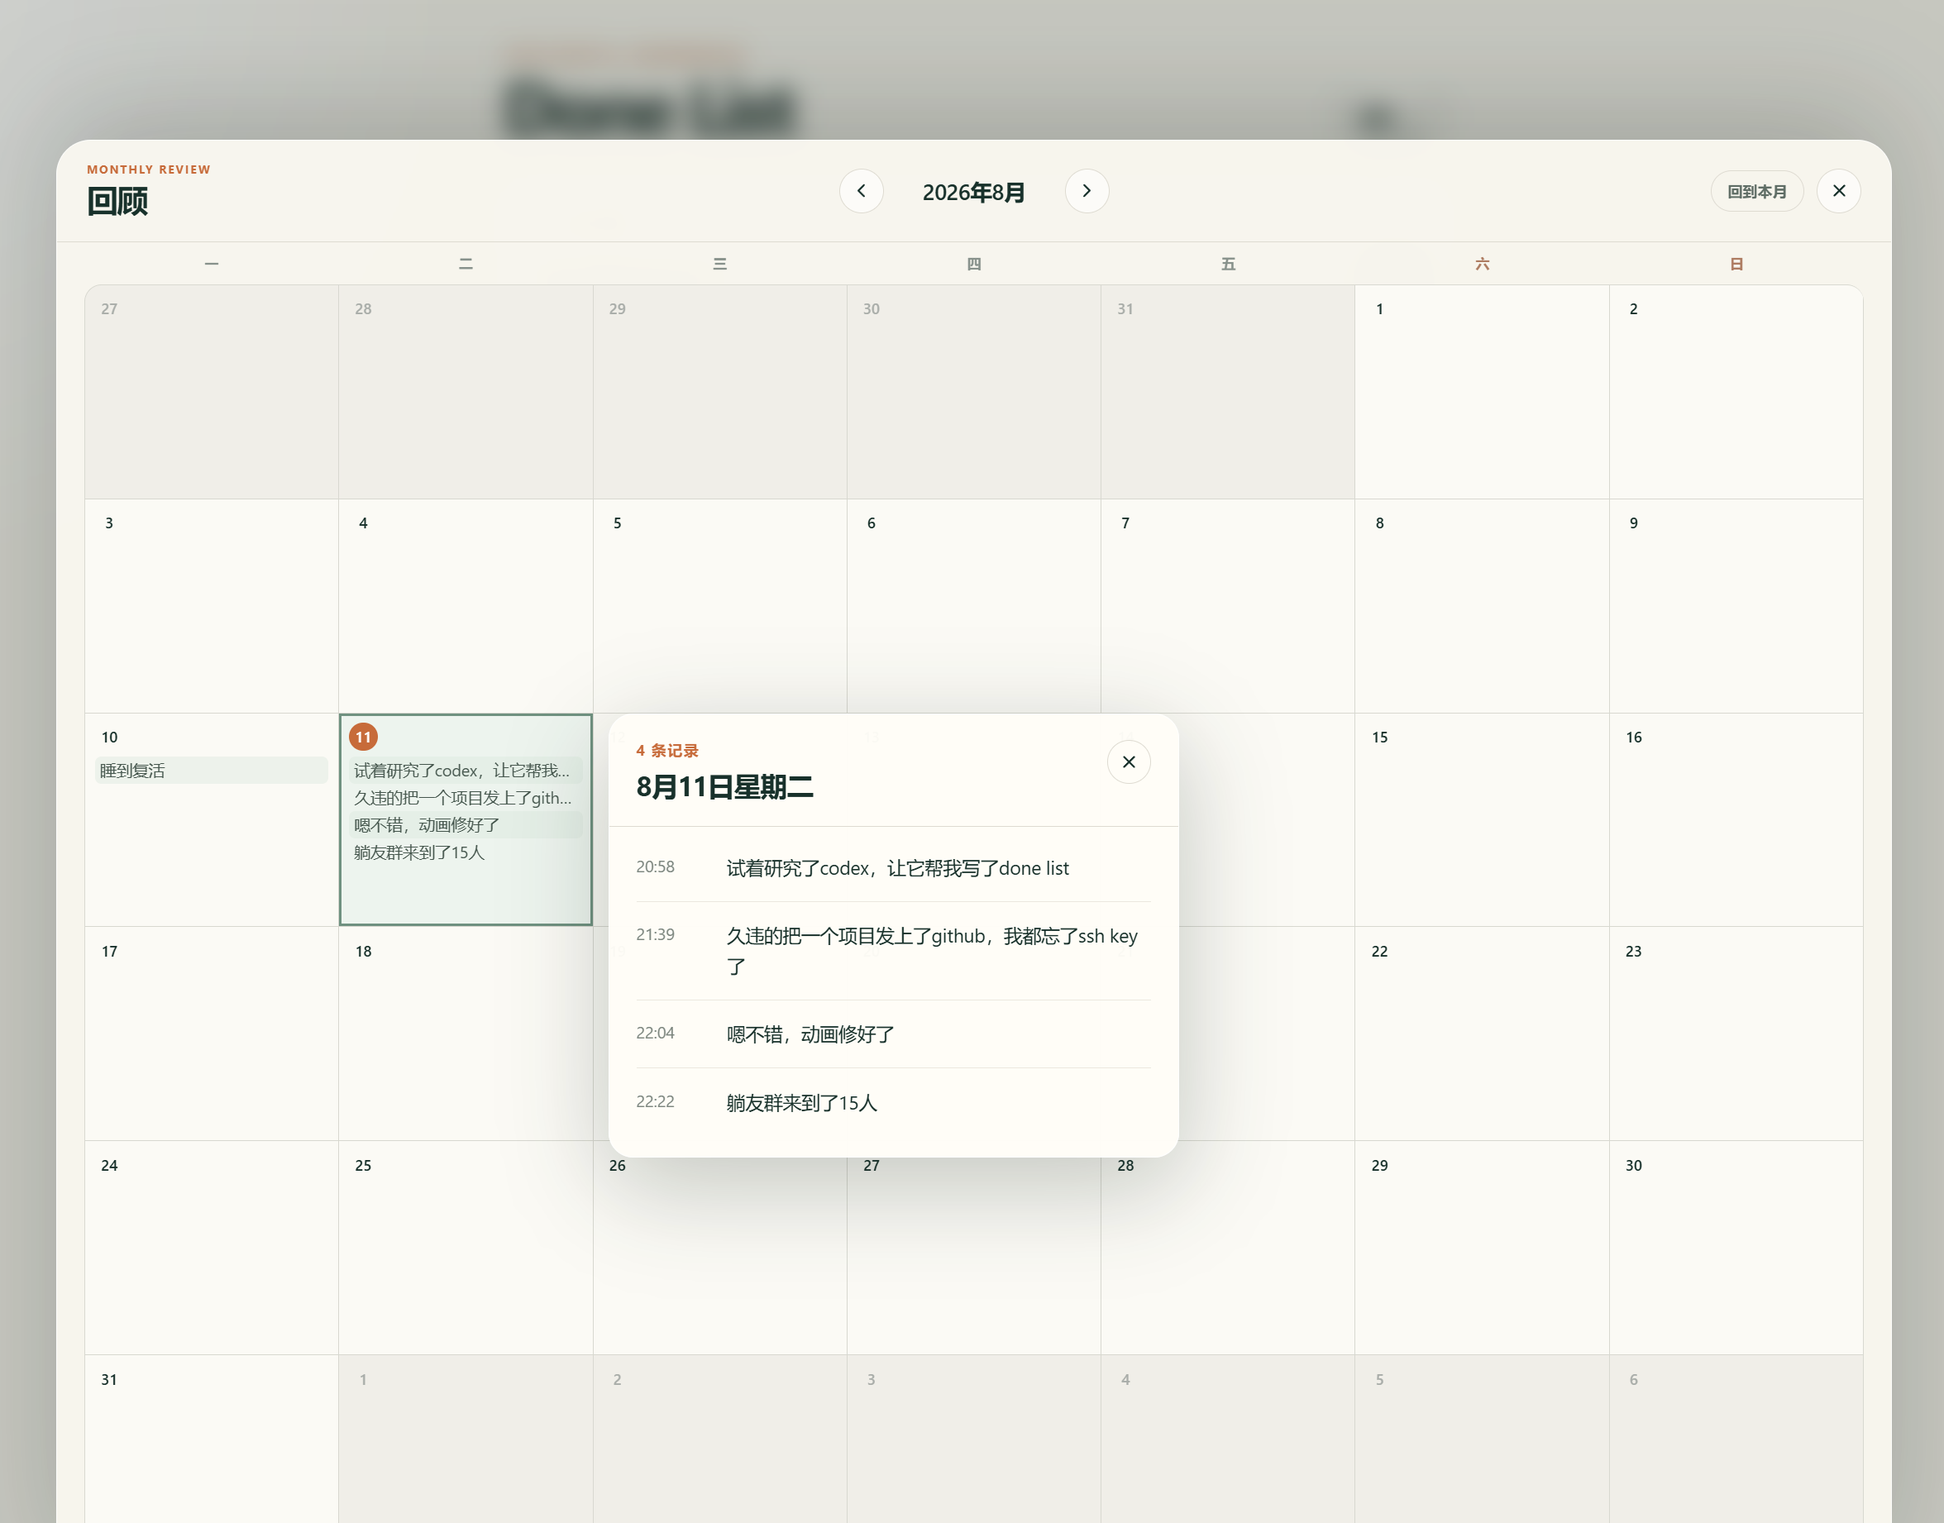
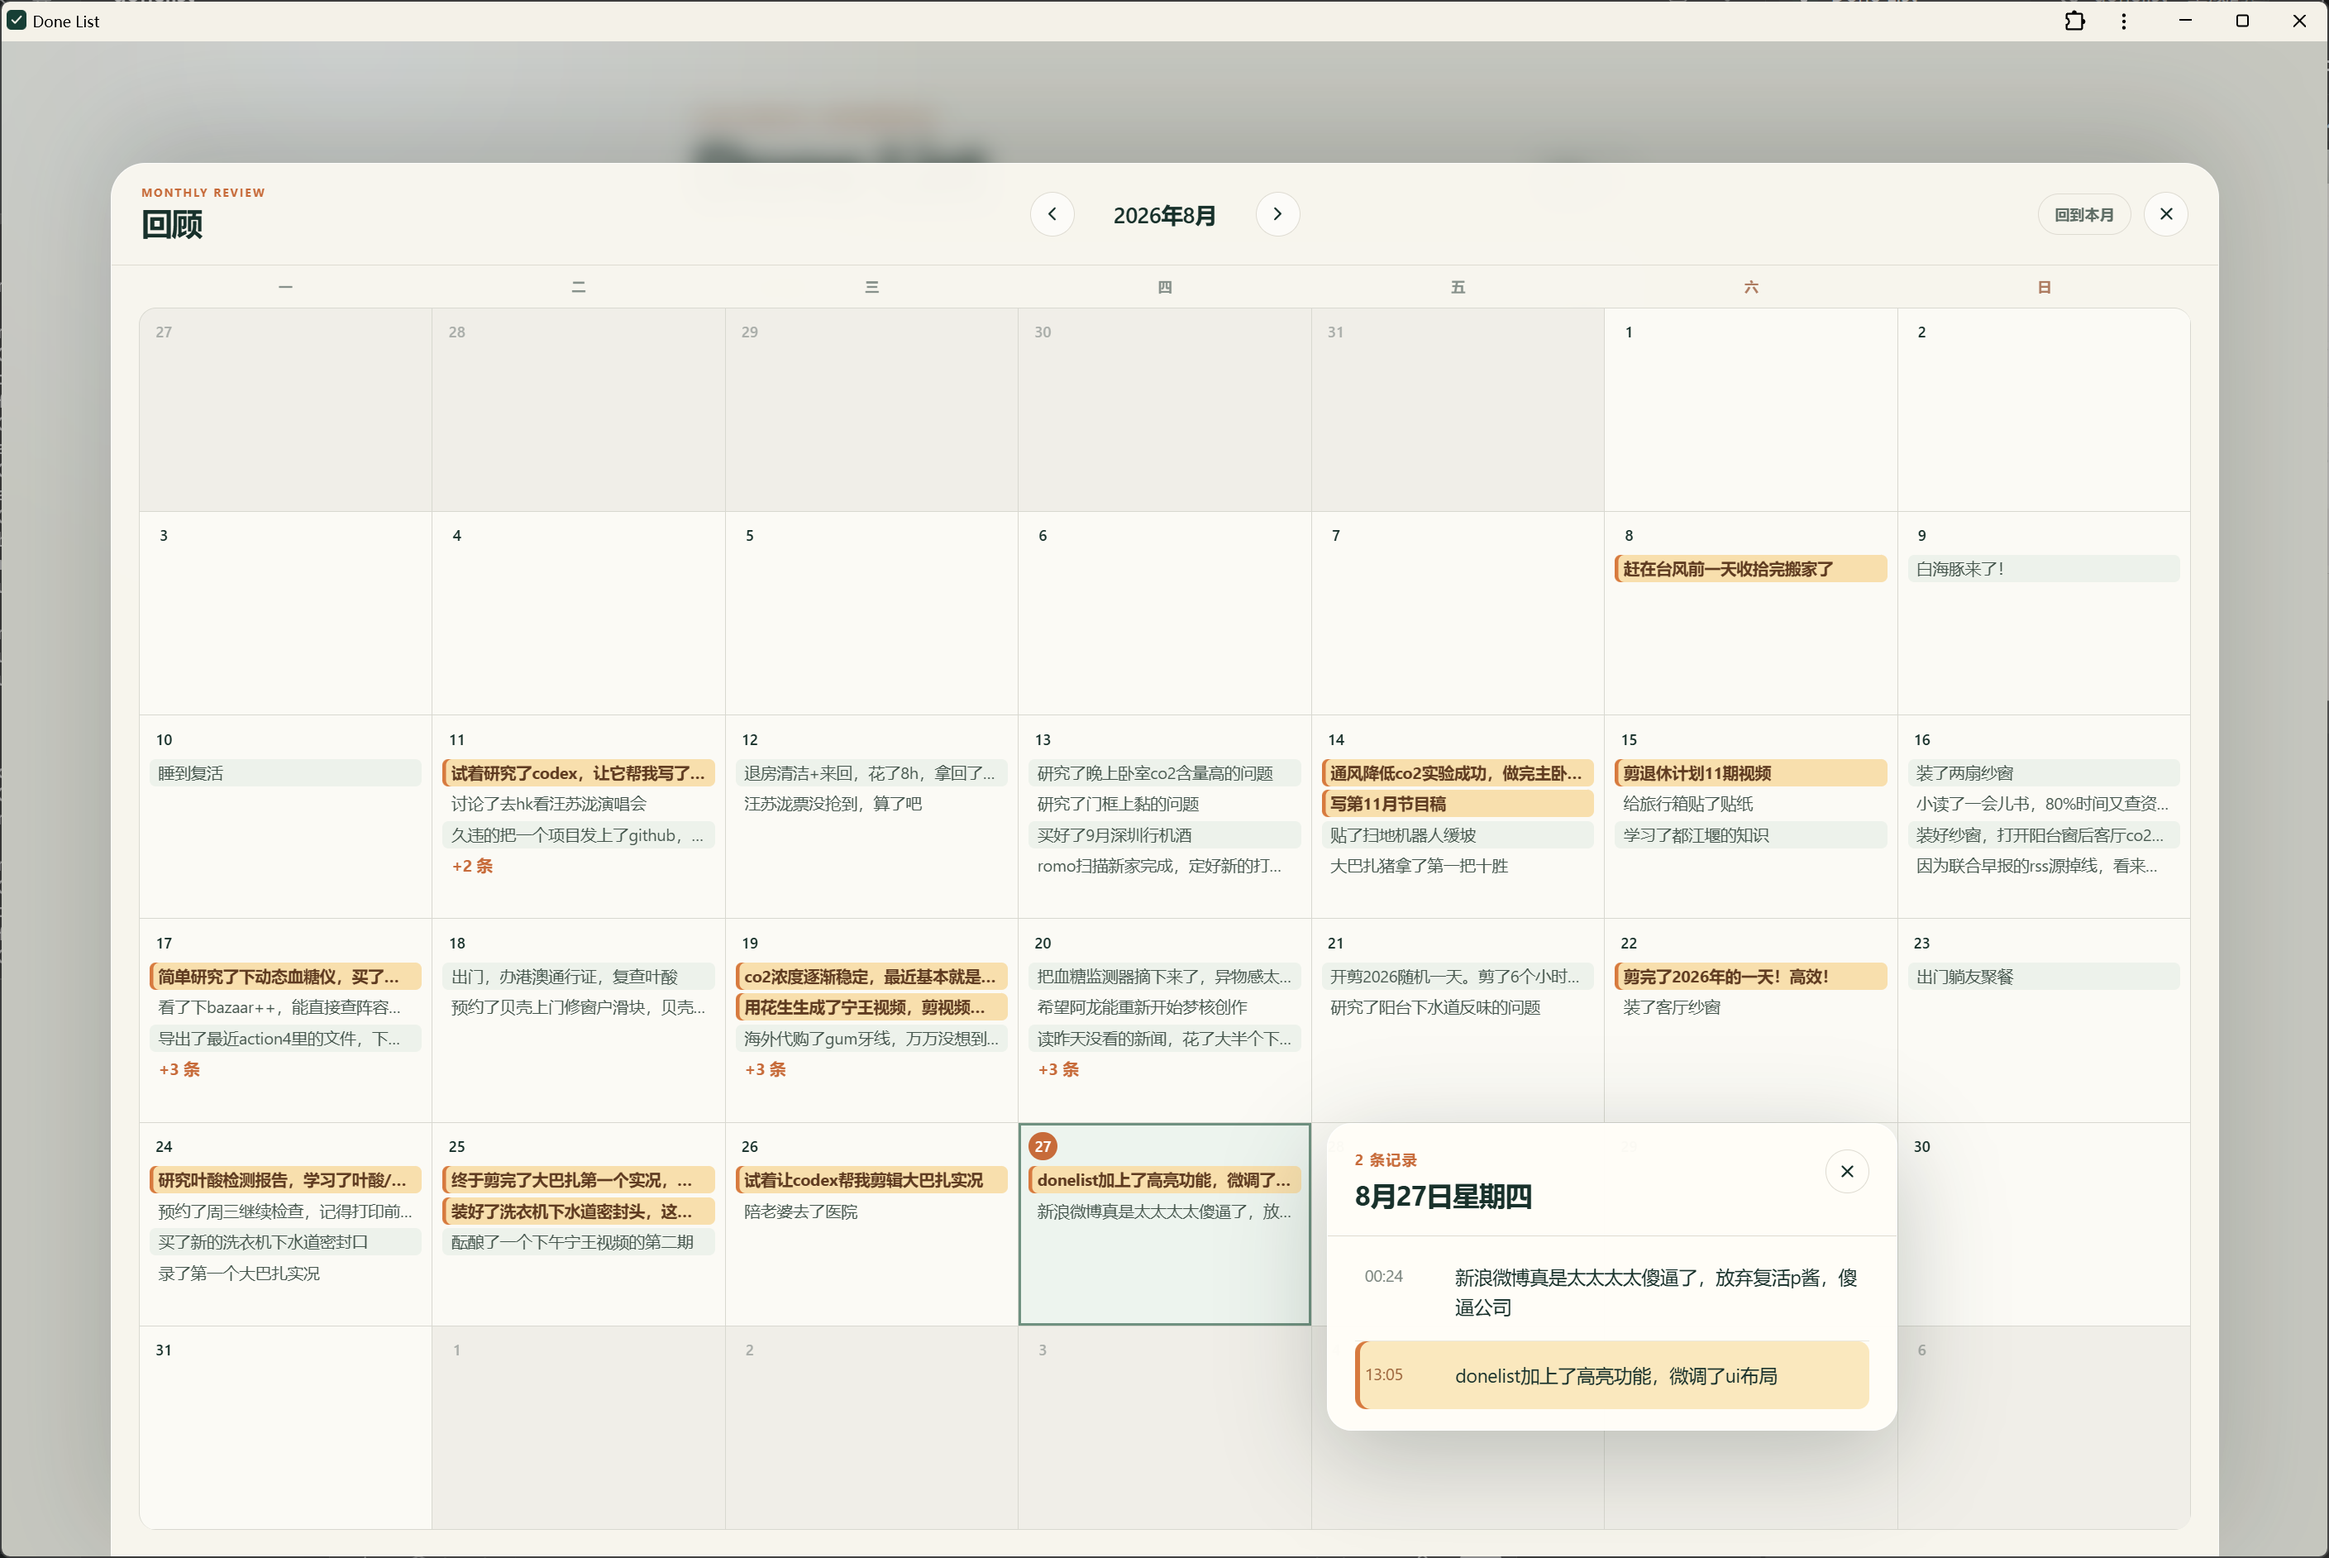
Minor UI modifications

Changed region(s): [[0.0, 0.0, 1.0, 1.0], [0.6831, 0.3404, 0.8694, 0.3713], [0.4347, 0.8355, 0.4658, 0.8664]]

diff --git a/src/styles.css b/src/styles.css
@@ -326,8 +326,8 @@ h1 { margin: 0; font-size: clamp(36px, 7vw, 60px); line-height: .95; letter-spac
 
 .review-sheet {
   display: flex;
-  width: min(1480px, 100%);
-  height: 90dvh;
+  width: min(1700px, 100%);
+  height: 92vh;
   min-height: 340px;
   flex-direction: column;
   overflow: hidden;
